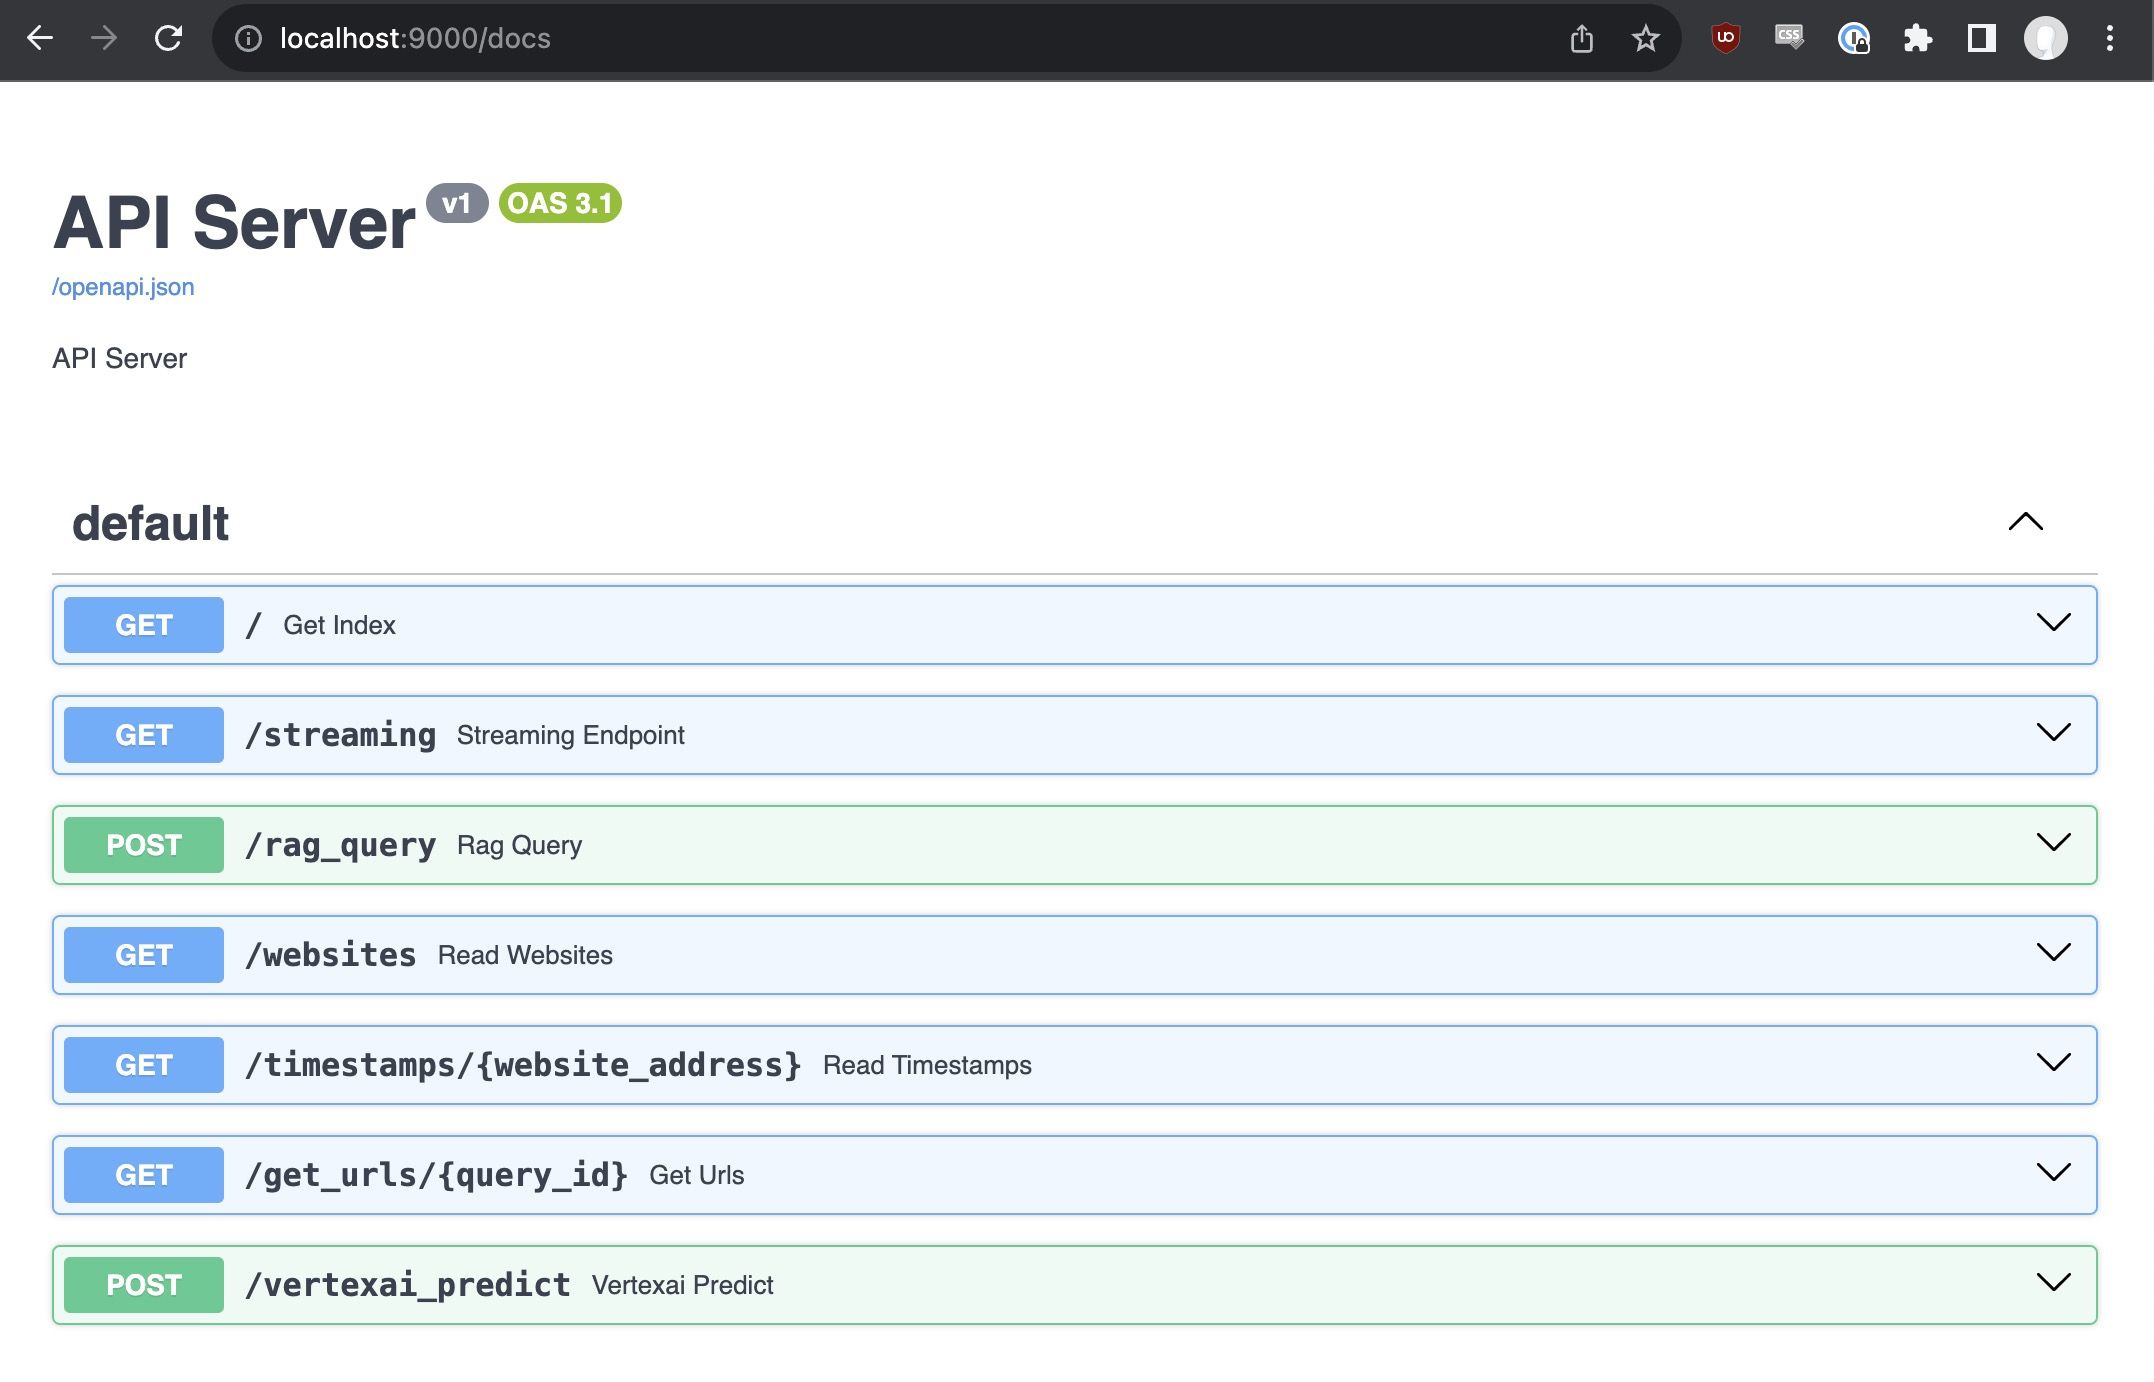
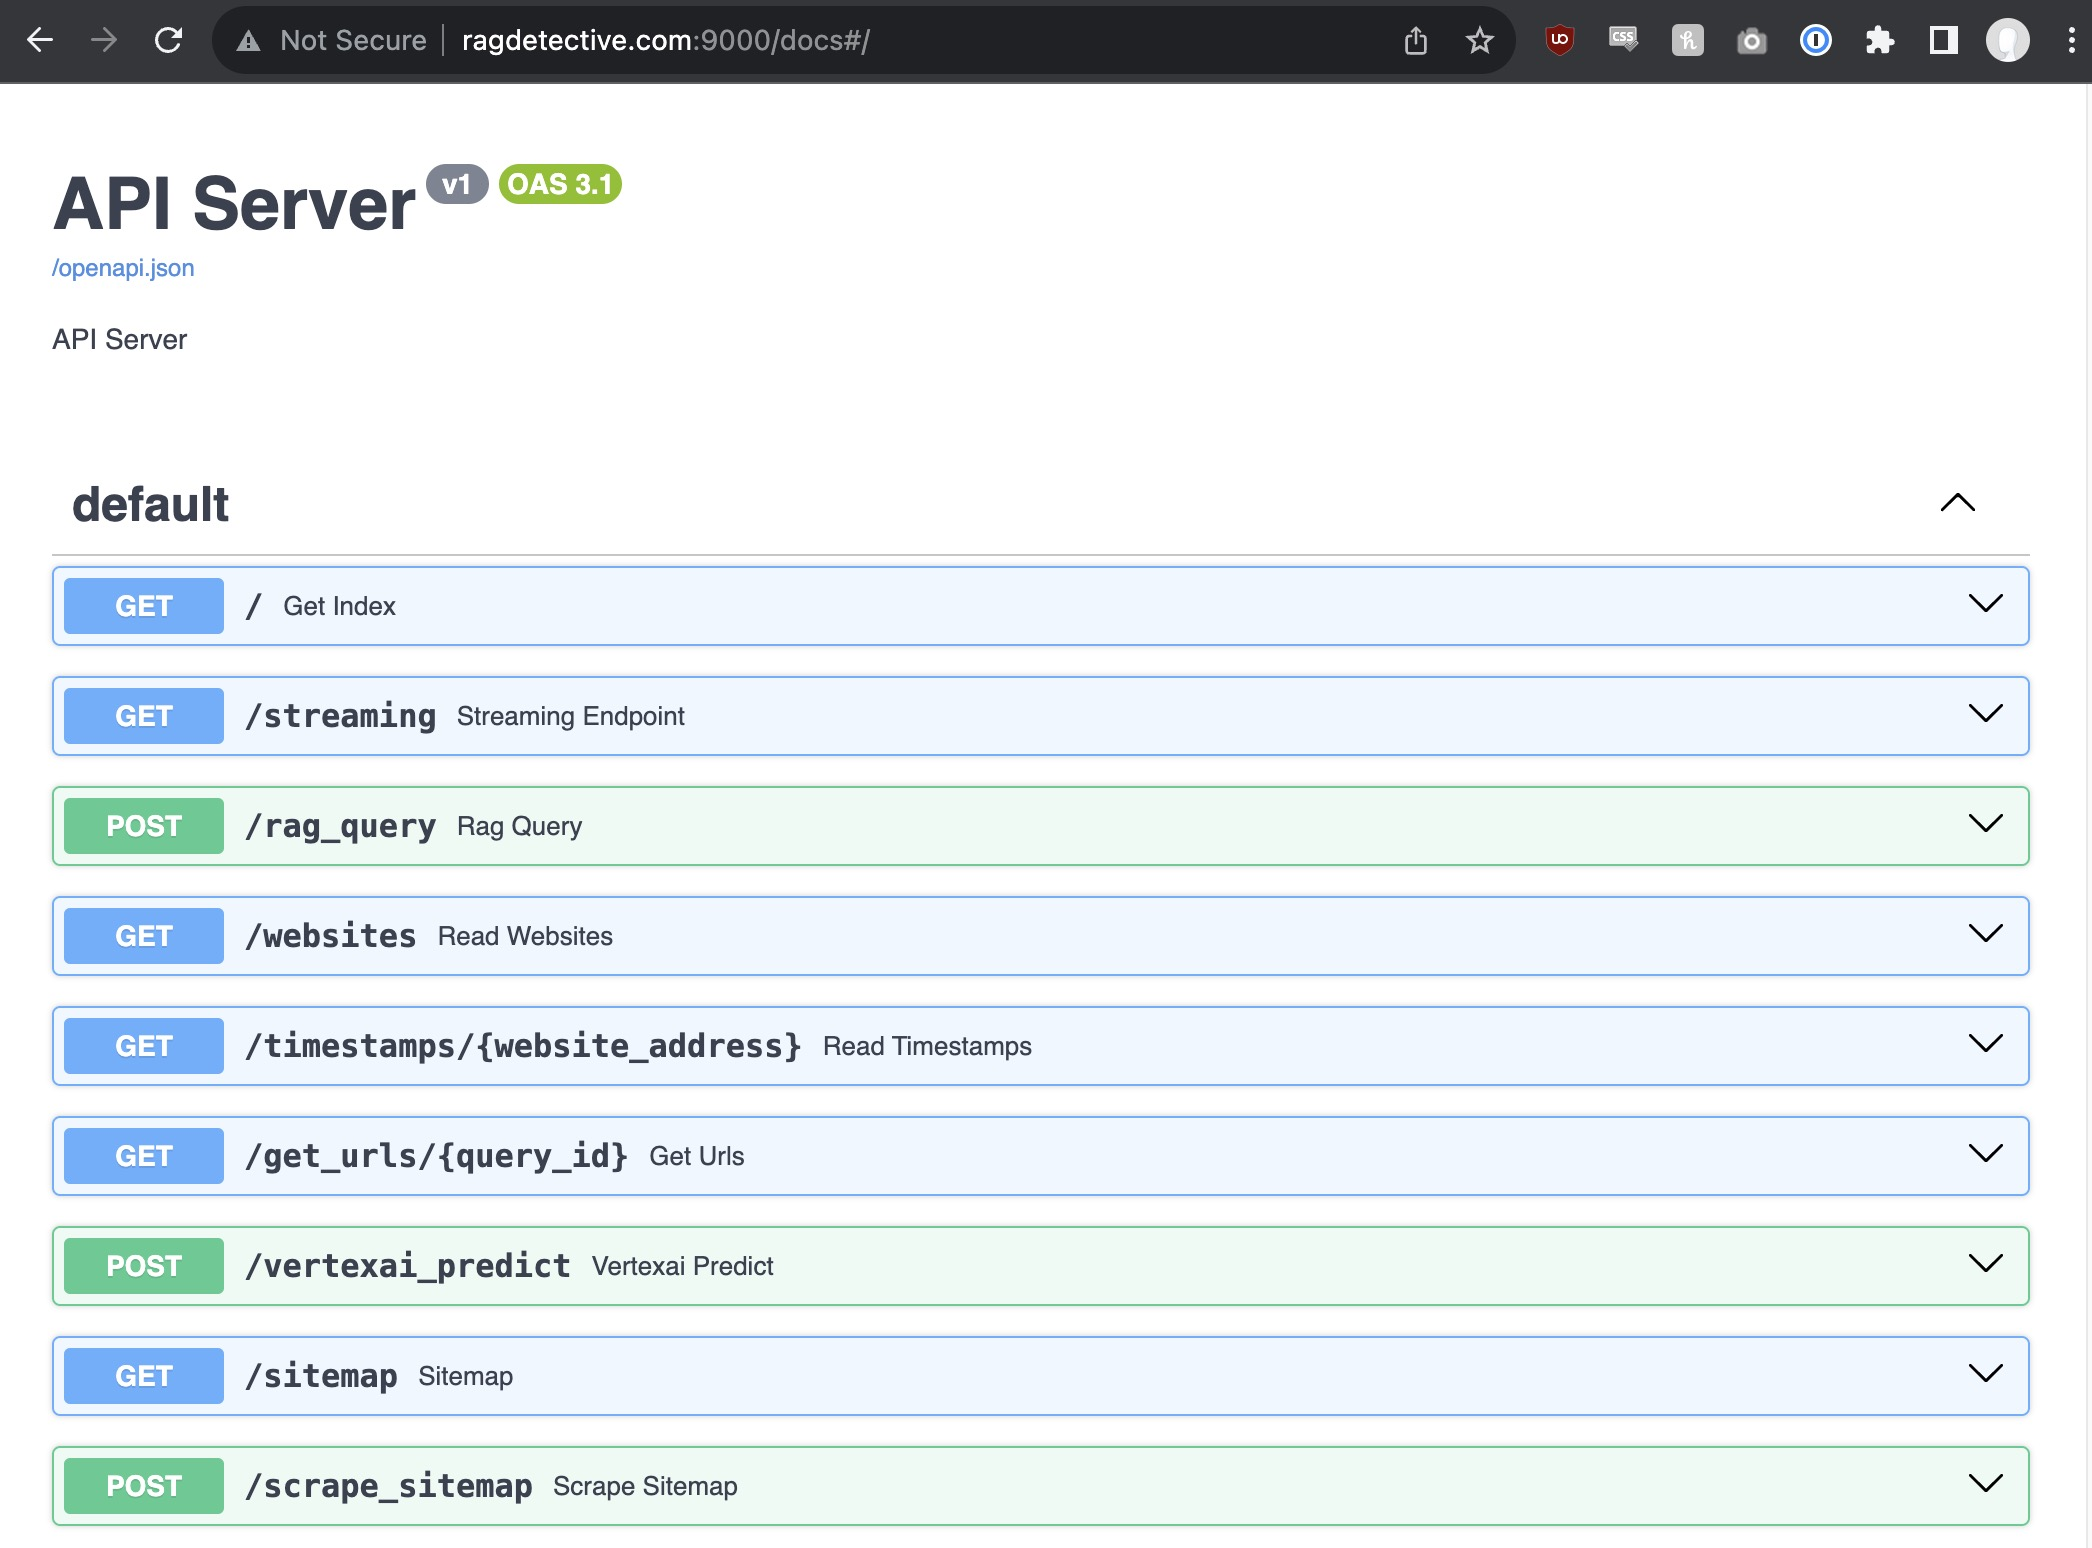
Update API docs image

Changed region(s): [[0.0, 0.3111, 0.9943, 0.9957], [0.0, 0.0, 1.0, 0.0622], [0.0311, 0.0933, 0.3107, 0.28]]

diff --git a/README.md b/README.md
@@ -15,7 +15,7 @@ Project Organization
 
 
 --------
-# AC215 - Milestone4 - RAG Detective
+# AC215 - RAG Detective
 
 **Team Members**
 Ian Kelk, Alyssa Lutservitz, Nitesh Kumar, Mandy Wong
@@ -43,6 +43,18 @@ Our solutions has 3 major components:
 - A chatbot that uses scraped data from the website’s `sitemap.xml` file—a file intended to guide search engines to all scrapable links on the site—in a manner that’s more specific and insightful than using a search engine. The LLM should only use this context to answer the question and not insert its own training data or hallucinate an answer. This is simple to test with questions like “Who is Kim Kardashian?” which would be clearly known to the model, and ensure it replies that this answer “is not within the context provided.”
 - A real-time scraper of websites on the application through asynchronous calls to the API.
 - Financial sentiment analysis on relevant completions from the LLM. As part of the prompt to GPT-3.5, we ask if its response is financial in nature. If it says it is, then our fine-tuned BERT model is called on it, and gives the response as well as a plot of the probabilities and an appropriately cute non-copyright infringing Bert puppet.
+
+# Application Design
+
+We've put together a detailed design document outlining the application’s architecture, comprised of a Solution Architecture and Technical Architecture graphic to ensure all our components work together.
+
+![](img/solution_architecture_1.png)
+
+![](img/solution_architecture_2.png)
+
+## Technical Architecture:
+
+![](img/technical_architecture.png)
 
 # RAG Component
 
@@ -83,7 +95,6 @@ This API provides an endpoint for text classification, interfacing with Google's
 
 # BERT Component
 
-
 ## Fine-tuning BERT with Financial Data for Sentiment Analysis
 
 The use of the `financial_phrasebank` dataset has been important for sentiment analysis in the financial domain, especially given the scarcity of annotated financial data. The dataset encompasses 4846 sentences from English financial news annotated into three sentiment classes—Neutral, Positive, and Negative—based on annotator consensus levels ranging from 50% to unanimity.
@@ -106,4 +117,37 @@ Subsequent evaluations with the debiased dataset revealed different performance 
 
 This procedure underscored the significance of accounting for annotator biases in machine learning model development, particularly for sentiment analysis that involves subjective judgments.
 
+# FastAPI Service Summary
 
+This section hosts a Dockerized FastAPI service designed for deployment on Google Cloud. It features a range of files facilitating Docker containerization and FastAPI application management.
+
+## Key Components
+
+### Docker Setup
+- `Dockerfile`: Creates a Docker image for the FastAPI app, based on Debian with Python 3.9.
+- `docker-shell.sh`: Script to build and run the Docker container, mapping local directories and setting environment variables.
+- `docker-entrypoint.sh`: Script that initiates the Uvicorn server to serve the FastAPI app.
+
+### FastAPI Application
+- `api/service.py`: The core application file defining API endpoints and their functionalities.
+- `api/helper.py`: Provides support functions for the FastAPI routes.
+
+### Documentation and Instructions
+- `README.txt`: Basic instructions for Docker image and container operations, and FastAPI interaction.
+
+## API Endpoints Overview
+- `GET /`: Returns a welcome message.
+- `GET /streaming`: Demonstrates streaming responses using a dummy list of websites.
+- `POST /rag_query`: Handles queries with streaming response.
+- `GET /websites`: Lists website addresses.
+- `GET /timestamps/{website_address}`: Retrieves timestamps for a specific website.
+- `GET /get_urls/{query_id}`: Fetches URLs and financial flags for a query.
+- `POST /vertexai_predict`: Uses Vertex AI's Prediction API for sentiment analysis.
+ `GET /sitemap`: Processes input in various forms, such as straightforward website names, fully qualified URLs, direct sitemap links, or URLs ending with a slash, to ensure effective sitemap scraping. The response encapsulates the status, number of pages found, nested sitemap flags, and pertinent messages.
+- `POST /scrape_sitemap`: Initiates the scraping of sitemaps and sequentially performs procedures such as streaming, saving to Google Cloud storage, and insertion into a vector storage system. During this operation, real-time updates are streamed to the client, informing them of the progress and completion of each step.
+
+![](img/api_server_docs.jpg)
+
+The repository offers comprehensive guidance on setting up and running the Dockerized FastAPI service, alongside detailed documentation accessible through the FastAPI's interactive documentation feature.
+
+For more information and detailed instructions, see [api-service-documentation.md.](./docs/api-service-documentation.md)
